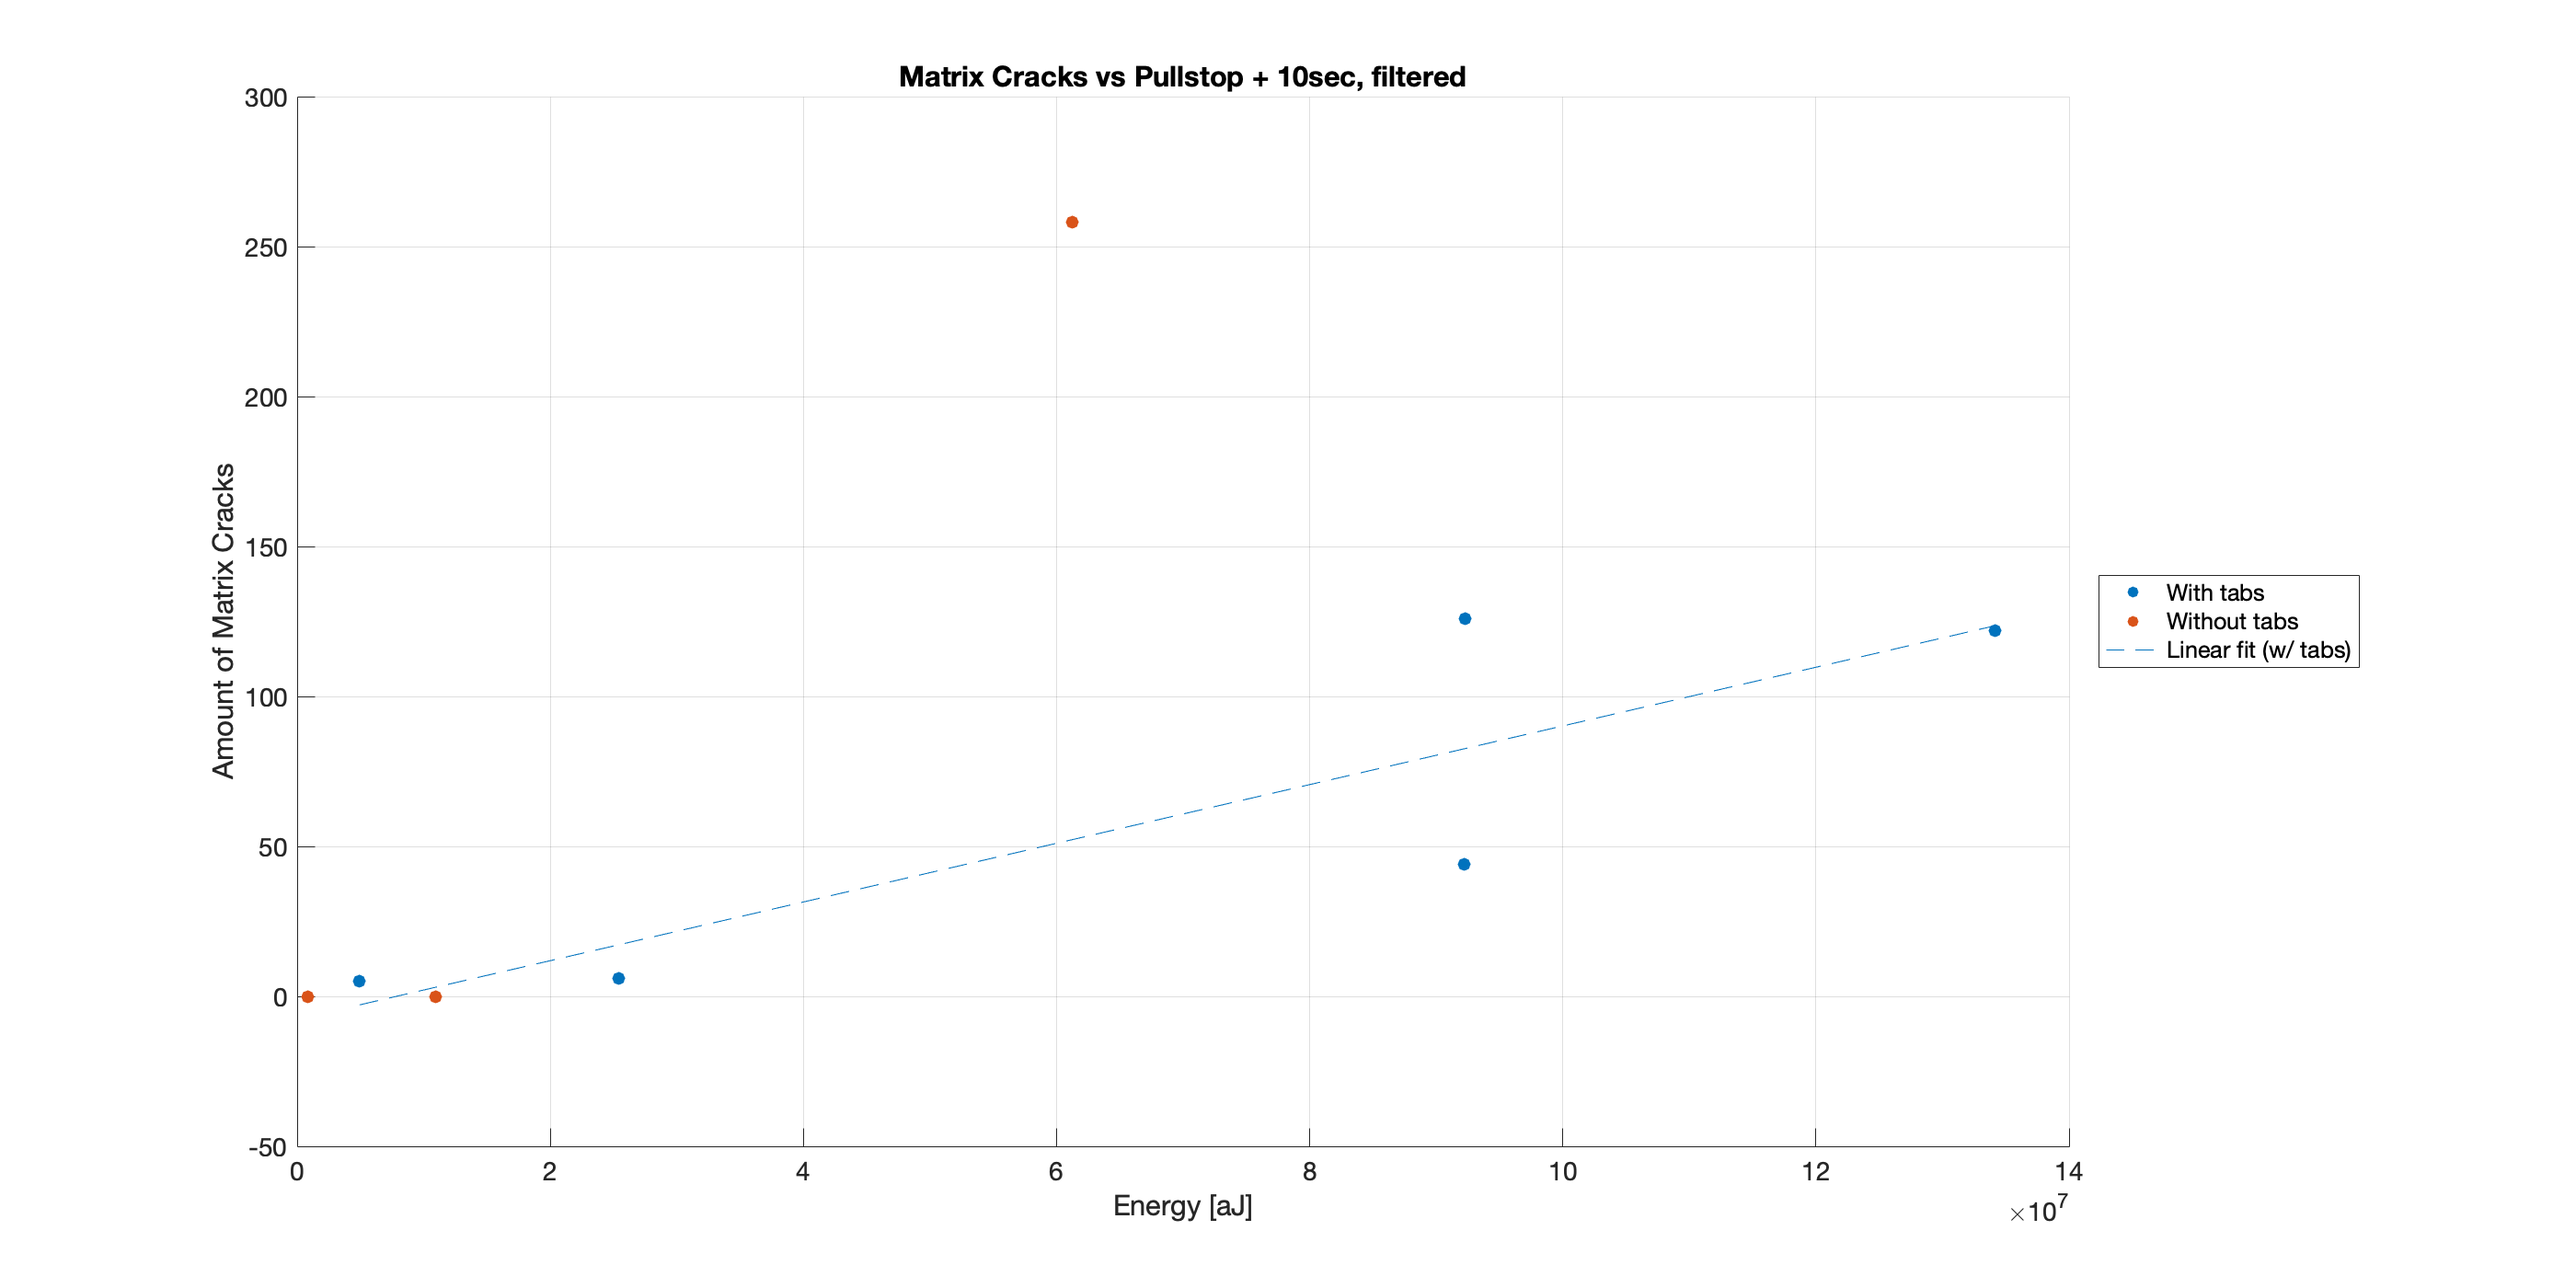
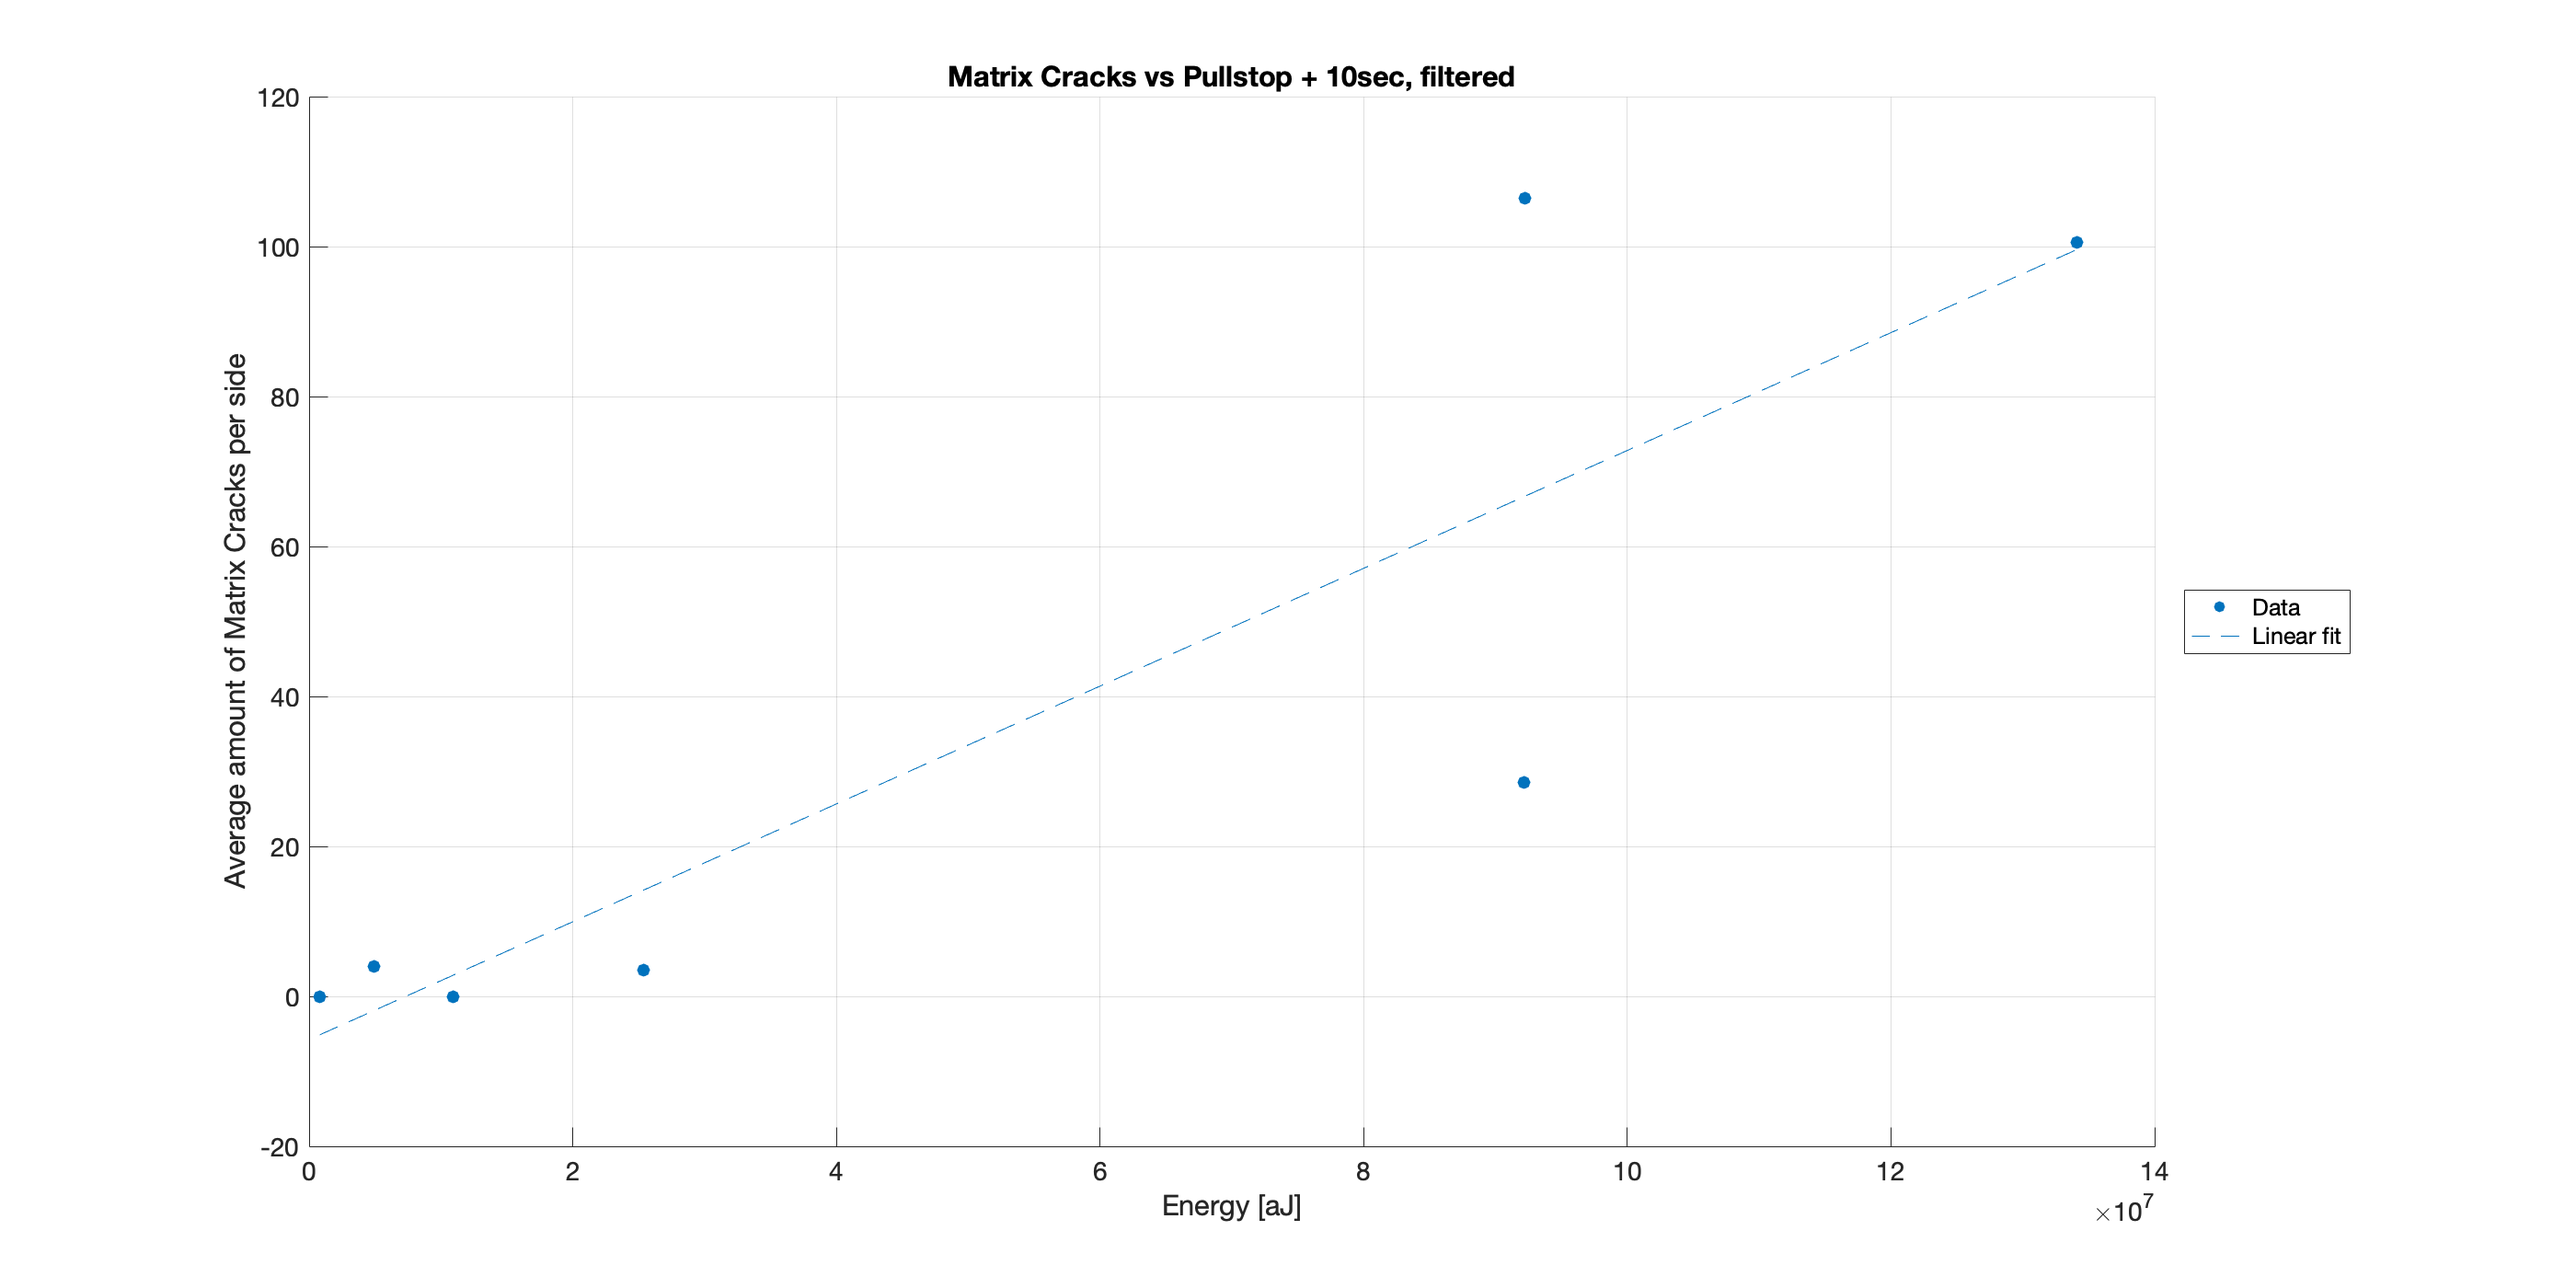
Removed data that was wrong and updated to use avg cracks instead.

diff --git a/Plots/Cracks_Energy.m b/Plots/Cracks_Energy.m
@@ -3,10 +3,11 @@
 % But the data of the specimens without tabs last
 % Enter how many specimens didn't have tabs
 
-cracks = [126, 122, 44, 6, 5, 0, 0, 258];
-% p_cracks = [87, 79, 13, 1, 3, 0, 0, 87];
+% cracks = [126, 122, 44, 6, 5, 0, 0];
+% p_cracks = [87, 79, 13, 1, 3, 0, 0];
+cracks = [106.5, 100.5, 28.5, 3.5, 4, 0, 0];
 
-no_tabs = 3;
+no_tabs = 0;
 
 energy_data = table2array(SV.EnergyTable(1:(end-no_tabs), 2:4));
 energy_data_notabs = table2array(SV.EnergyTable((end-no_tabs+1):end, 2:4));
@@ -16,6 +17,8 @@ cracks_data_notabs = cracks(:, (end-no_tabs+1):end);
 
 energy_titles = ["Pullstop Energy", "Pullstop + 10sec", "Total Energy"];
 energy_stop_col = [2, 3, 1];
+
+
 
 for t = energy_titles
 
@@ -33,7 +36,7 @@ for t = energy_titles
     % fp = polyval(lcp, x);
 
     scatter(e, cracks_data, 50, "filled", "Color", "#0072BD");
-    scatter(e_nt, cracks_data_notabs, 50, "filled", "Color", "#808080");
+    % scatter(e_nt, cracks_data_notabs, 50, "filled", "Color", "#808080");
     plot([min(e) max(e)], f, "LineStyle", "--", "Color", "#0072BD");
     % scatter(x, p_cracks, 50, "filled", "b");
     % plot(x, fp, "Color", "b", "LineStyle","--");
@@ -41,10 +44,11 @@ for t = energy_titles
     title(append(plus("Matrix Cracks vs ", t),...
         captext));
     xlabel('Energy [aJ]');
-    ylabel('Amount of Matrix Cracks');
-    legend(["With tabs", "Without tabs", "Linear fit (w/ tabs)"], ...
+    ylabel('Average amount of Matrix Cracks per side');
+    legend(["Data", "Linear fit"], ...
         'location','east outside');
     grid on
     set(gca,'FontSize',14)
     hold off
 end
+

diff --git a/Cycle.m b/Cycle.m
@@ -9,7 +9,7 @@ experimentNo = [];
 % Experiments = ["2005","2006","2004","2007","2003","2002","3003",...
 %      "3004","2001","3002","3001","3005","2009","2008"]; %falling order
 % Experiments = ["2001", "3001","3002","3003","3004","3005"];
-Experiments = ["3003", "3004", "3002", "3001", "3005", "2009", "2008", "2001"];
+Experiments = ["3003", "3004", "3002", "3001", "3005", "2009", "2008"];
 
 SV = struct('experimentNo',experimentNo,'Experiments',Experiments);
 for exp = 1 : length(SV.Experiments)
@@ -116,7 +116,7 @@ Legendtext = plus(num2str(Order'),...
     plus(": ",...
     plus(num2str(round(SV.Table.MPa)),...
     "MPa")));
-capped = false;
+capped = true;
 if capped == true
     captext = ', filtered';
 else

diff --git a/Start.m b/Start.m
@@ -58,7 +58,9 @@ MCmaxCount = 50;
 MCminRise = 0; %[s]
 MCmaxRise = 45; %[s]
 MCstr = 210; % [%] What is expected start stress for matrix cracks
-EnergyCap = 1.5*10^15; %To exclude anomalies
+
+EnergyCap = 10^16;
+% EnergyCap = 1.5*10^7; %To exclude anomalies
 
     %Calibrate debonding definition
 DBminFreq = 240*10^3; %[Hz]
